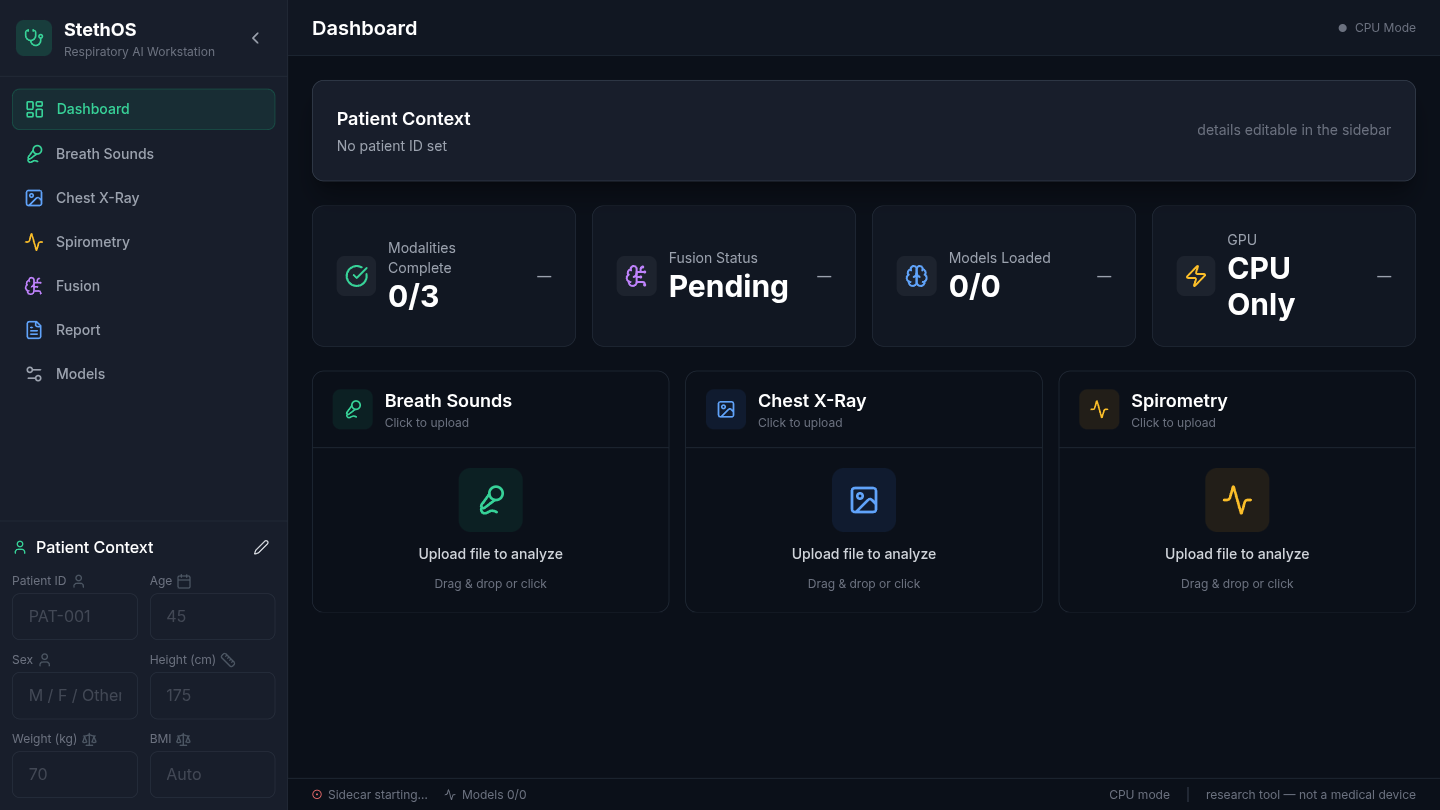
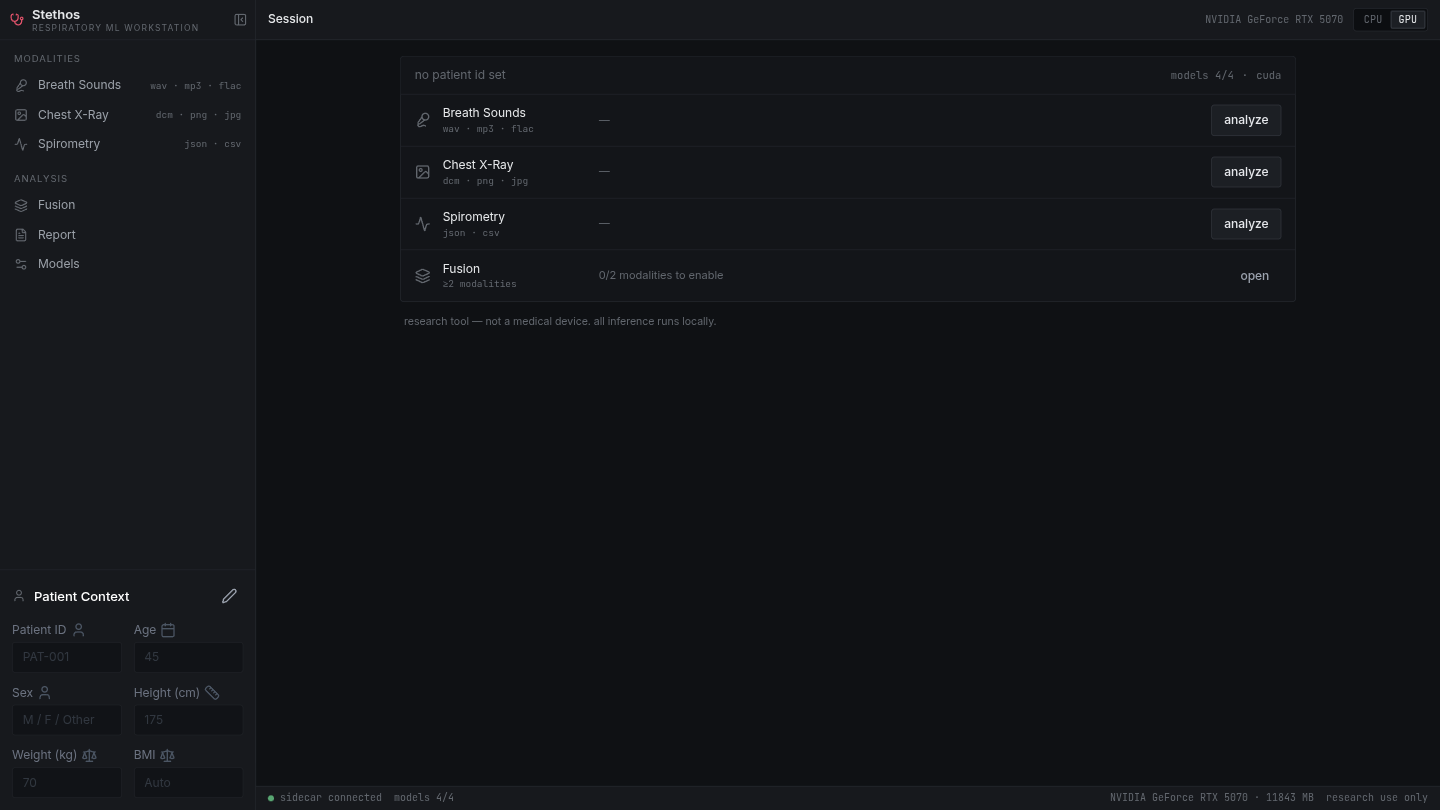
stethos first in projects; new workbench screenshot; casing fix

diff --git a/app.js b/app.js
@@ -1,5 +1,13 @@
 const sites = [
   {
+    name: "Stethos",
+    url: "https://github.com/RajdeepSaiPutta/stethos",
+    shown: "github.com/RajdeepSaiPutta/stethos",
+    shot: "assets/stethos-app.png",
+    access: "public",
+    desc: "A desktop workstation for respiratory diagnostics that fuses three modalities into one assessment. Breath-sound recordings are classified as normal, crackle or wheeze through a log-mel spectrogram CNN; chest X-rays go through pathology classification and lung segmentation; spirometry files are read for PFT patterns and GOLD staging. A cross-attention fusion layer combines the evidence into a single risk level with per-modality contributions, and the report view ties it together with export to PDF, FHIR, DICOM-SR or raw JSON. Inference runs in a local Python sidecar plugin system with CUDA acceleration and CPU as a fallback, the interface has the flat chrome of a real medical workbench, and without trained checkpoints the models fall back to locally-initialized weights so the full pipeline stays runnable end to end.",
+  },
+  {
     name: "Evaluator",
     url: "https://github.com/RajdeepSaiPutta/evaluator-gui",
     shown: "github.com/RajdeepSaiPutta/evaluator-gui",
@@ -46,14 +54,6 @@ const sites = [
     shot: "assets/mako-app.png",
     access: "public",
     desc: "A research agent built around a deliberately layered system design. The backend is a FastAPI application split into independent modules: session storage, document ingestion, a URL scraper, and a tool-calling core, each replaceable on its own. Inside the agent loop, a Groq language model plans and executes research steps, while Google search supplies citations and raw information; the model decides when to search, reads the results, and calls back into itself until the material is enough. The writing is done in Groq passes over the gathered sources, and the browser front-end runs a four-stage workspace (links, research, results, chat) with saved sessions so a research run can be resumed. Every stage runs through explicit hand-offs rather than one large prompt, which keeps the research inspectable and the drafting rerunnable.",
-  },
-  {
-    name: "StethOS",
-    url: "https://github.com/RajdeepSaiPutta/stethos",
-    shown: "github.com/RajdeepSaiPutta/stethos",
-    shot: "assets/stethos-app.png",
-    access: "public",
-    desc: "A desktop workstation for respiratory diagnostics that fuses three modalities into one assessment. Breath-sound recordings are classified as normal, crackle or wheeze through a log-mel spectrogram CNN; chest X-rays go through pathology classification and lung segmentation; spirometry files are read for PFT patterns and GOLD staging. A cross-attention fusion layer combines the evidence into a single risk level with per-modality contributions, and the report view ties it together with export to PDF, FHIR, DICOM-SR or raw JSON. The interface is Tauri and React, inference runs in a local Python sidecar plugin system, and without trained checkpoints the models fall back to locally-initialized weights so the full pipeline stays runnable end to end.",
   },
 ];
 
